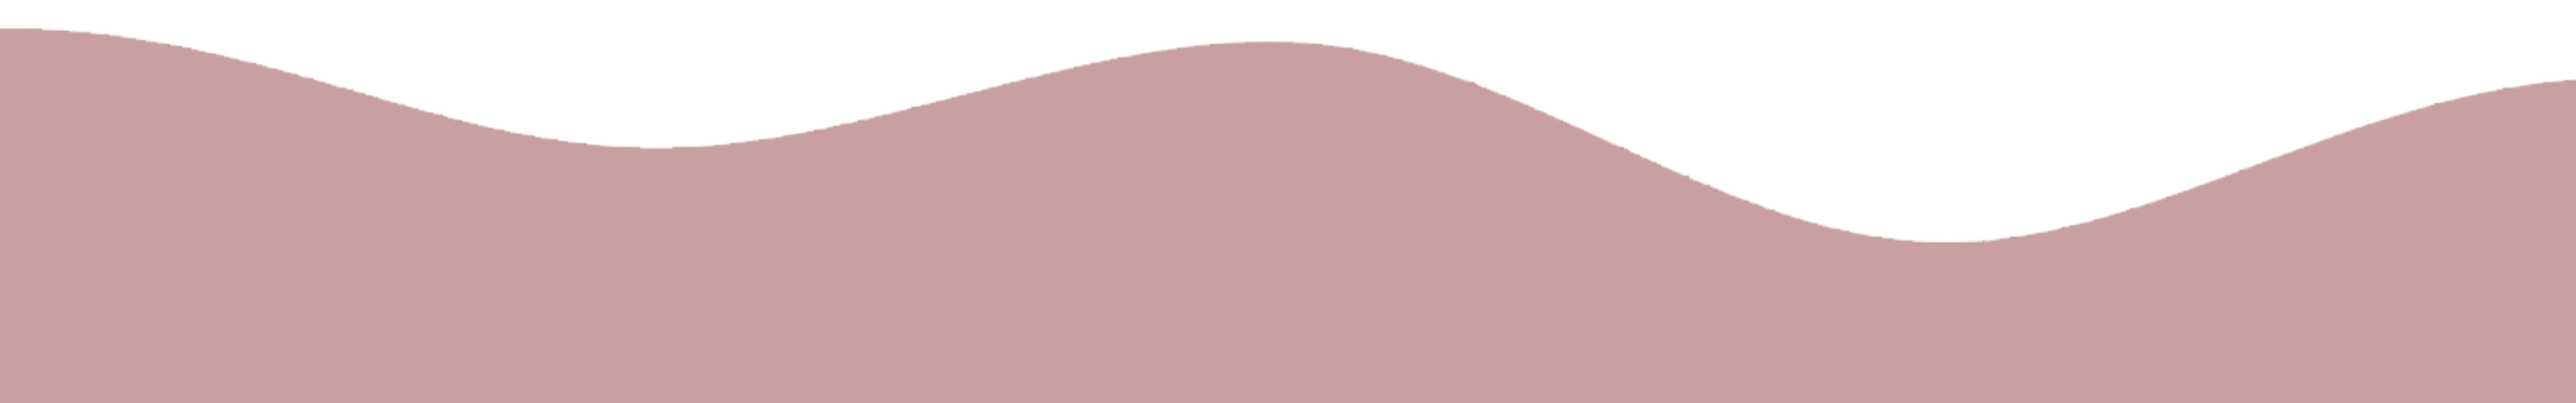
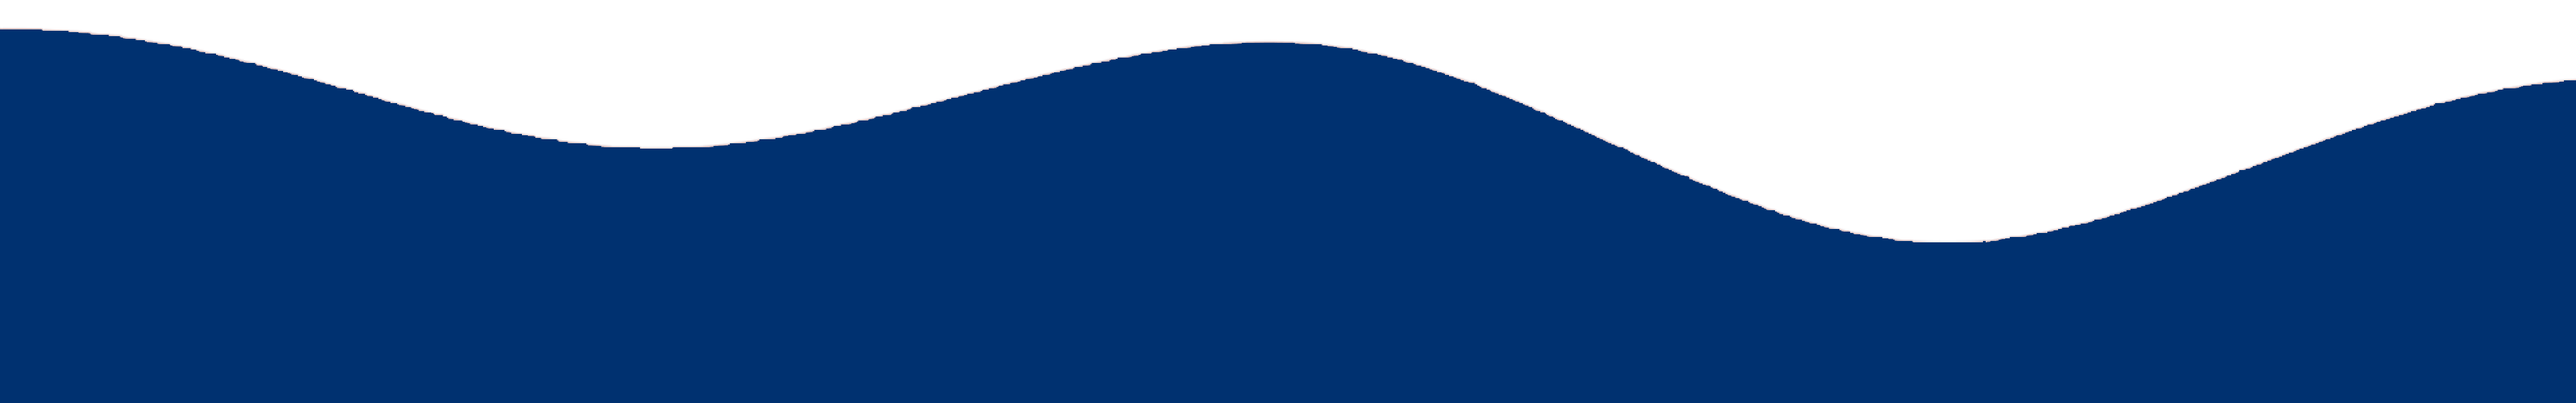
UI Revamp 2.0

diff --git a/resources/views/auth/register.blade.php b/resources/views/auth/register.blade.php
@@ -10,7 +10,7 @@
             <div class="col-md-8">
                 <div class="card">
                     <div class="card-header" style="
-                                            background-color:rgba(200,160,160,255);
+                                            background-color:#003170;
                                             display:flex;
                                             justify-content:center;
                                             font-size:2vw;
@@ -18,17 +18,17 @@
 
                     {{ __('Register') }}
                 </div>
-    
-                    <div class="card-body" style="background-color:rgba(200,160,160,255)">
+
+                    <div class="card-body" style="background-color:#003170">
                         <form method="POST" action="{{ route('register') }}">
                             @csrf
-    
+
                             <div class="row mb-3 d-flex justify-content-center">
                                 {{-- <label for="name" class="col-md-4 col-form-label text-md-end">{{ __('Name') }}</label> --}}
-    
+
                                 <div class="col-md-8">
                                     <input id="name" type="text" placeholder="Name" class="form-control @error('name') is-invalid @enderror" name="name" value="{{ old('name') }}" required autocomplete="name" autofocus>
-    
+
                                     @error('name')
                                         <span class="invalid-feedback" role="alert">
                                             <strong>{{ $message }}</strong>
@@ -36,13 +36,13 @@
                                     @enderror
                                 </div>
                             </div>
-    
+
                             <div class="row mb-3 d-flex justify-content-center">
                                 {{-- <label for="email" class="col-md-4 col-form-label text-md-end">{{ __('E-Mail Address') }}</label> --}}
-    
+
                                 <div class="col-md-8">
                                     <input id="email" type="email" placeholder="E-Mail Address" class="form-control @error('email') is-invalid @enderror" name="email" value="{{ old('email') }}" required autocomplete="email">
-    
+
                                     @error('email')
                                         <span class="invalid-feedback" role="alert">
                                             <strong>{{ $message }}</strong>
@@ -50,13 +50,13 @@
                                     @enderror
                                 </div>
                             </div>
-    
+
                             <div class="row mb-3 d-flex justify-content-center">
                                 {{-- <label for="password" class="col-md-4 col-form-label text-md-end">{{ __('Password') }}</label> --}}
-    
+
                                 <div class="col-md-8">
                                     <input id="password" type="password" placeholder="Password" class="form-control @error('password') is-invalid @enderror" name="password" required autocomplete="new-password">
-    
+
                                     @error('password')
                                         <span class="invalid-feedback" role="alert">
                                             <strong>{{ $message }}</strong>
@@ -64,15 +64,15 @@
                                     @enderror
                                 </div>
                             </div>
-    
+
                             <div class="row mb-3 d-flex justify-content-center">
                                 {{-- <label for="password-confirm" class="col-md-4 col-form-label text-md-end">{{ __('Confirm Password') }}</label> --}}
-    
+
                                 <div class="col-md-8">
                                     <input id="password-confirm" type="password" placeholder="Confirm Password" class="form-control" name="password_confirmation" required autocomplete="new-password">
                                 </div>
                             </div>
-    
+
                             <div class="row mb-0">
                                 <div class="col-md-6 offset-md-5">
                                     <button type="submit" class="btn btn btn-outline-light">

diff --git a/resources/views/auth/login.blade.php b/resources/views/auth/login.blade.php
@@ -10,26 +10,26 @@
             <div class="col-md-8">
                 <div class="card">
                     <div class="card-header" style="
-                                            background-color:rgba(200,160,160,255);
+                                            background-color:#003170;
                                             display:flex;
                                             justify-content:center;
                                             font-size:2vw;
                                             color:white">
 
                                             {{ __('Login') }}
-                                        
+
                                         </div>
-    
-                    <div class="card-body" style="background-color:rgba(200,160,160,255);">
+
+                    <div class="card-body" style="background-color:#003170">
                         <form method="POST" action="{{ route('login') }}">
                             @csrf
-    
+
                             <div class="row mb-3 d-flex justify-content-center">
                                 {{-- <label for="email" class="col-md-4 col-form-label text-md-end">{{ __('E-Mail Address') }}</label> --}}
-    
+
                                 <div class="col-md-8">
                                     <input id="email" type="email" placeholder="E-Mail Address" class="form-control @error('email') is-invalid @enderror" name="email" value="{{ old('email') }}" required autocomplete="email" autofocus>
-    
+
                                     @error('email')
                                         <span class="invalid-feedback" role="alert">
                                             <strong>{{ $message }}</strong>
@@ -37,13 +37,13 @@
                                     @enderror
                                 </div>
                             </div>
-    
+
                             <div class="row mb-2 d-flex justify-content-center">
                                 {{-- <label for="password" class="col-md-4 col-form-label text-md-end">{{ __('Password') }}</label> --}}
-    
+
                                 <div class="col-md-8">
                                     <input id="password" type="password" placeholder="Password" class="form-control @error('password') is-invalid @enderror" name="password" required autocomplete="current-password">
-    
+
                                     @error('password')
                                         <span class="invalid-feedback" role="alert">
                                             <strong>{{ $message }}</strong>
@@ -51,19 +51,19 @@
                                     @enderror
                                 </div>
                             </div>
-    
+
                             <div class="row mb-3">
                                 <div class="col-md-6 offset-md-2">
                                     <div class="form-check">
                                         <input class="form-check-input" type="checkbox" name="remember" id="remember" {{ old('remember') ? 'checked' : '' }}>
-    
+
                                         <label class="form-check-label" style="color:white" for="remember">
                                             {{ __('Remember Me') }}
                                         </label>
                                     </div>
                                 </div>
                             </div>
-    
+
                             <div class="row mb-0">
                                 <div class="col-md-8 offset-md-5">
                                     <button type="submit" class="btn btn-outline-light" style="padding: 0.5vw 2vw">

diff --git a/resources/views/dashboard.blade.php b/resources/views/dashboard.blade.php
@@ -4,7 +4,7 @@
 
         <div class="leftContainer" style="width:40vw;
                                 height:20vw;
-                                border: 1vw solid #FFFFFF; 
+                                border: 1vw solid #FFFFFF;
                                 border-radius:0.7vw;
                                 color:black;
                                 margin-top: 2vw;
@@ -14,7 +14,7 @@
                                 box-shadow: 0.5vw 0.5vw 1vw 0.8vw #C0C0C0;">
 
             <div class="header" style="display: flex;align-items:center">
-                <h2 style="margin-left: 2vw">Upcoming Activities</h2>
+                <h2 style="margin-left: 2vw">Your Forums</h2>
                 <a href="/agenda/{{ Auth::user()->id }}" style="color:blue; margin-top:1vw;margin-left:1vw;">See all</a>
             </div>
 
@@ -30,25 +30,9 @@
                             <tr>
                             </tr>
                         </thead>
-                        @forelse ($agenda_details as $item)
-                            @php
-                                $count++;
-                            @endphp
-                            @if ($count <= 5)
-                                <tr>
-                                    <td>
-                                        @php
-                                            $time = $item->time;
-                                            echo number_format((float) $time, 2, '.', '');
-                                        @endphp
-                                    </td>
-                                    <td style="padding: 12px 15px;">{{ $item->agenda }}</td>
-                            @endif
-                        @empty
                         <div class="empty" style="margin-left: -19vw; margin-top: 1vw">
-                            No Agendas For Today.
+                            No active forums.
                         </div>
-                        @endforelse
                     </table>
                 </div>
             </div>
@@ -56,7 +40,7 @@
 
             <div class="rightContainer" style="width:40vw;
                                         height:20vw;
-                                        border: 1vw solid #FFFFFF; 
+                                        border: 1vw solid #FFFFFF;
                                         border-radius:0.7vw;
                                         color:black;
                                         margin-top: -20vw;
@@ -104,5 +88,5 @@
                 <img src="/storage/dashBottom.png" style="margin-top: 1.3vw;margin-left: 29vw ;width: 30vw; height: 18vw" alt="">
             </div>
 
-        
+
     @endsection

diff --git a/resources/views/welcome.blade.php b/resources/views/welcome.blade.php
@@ -12,7 +12,7 @@
             font-weight: 800;
             font-size: 5vw;
             color: #FFFFFF;">
-                UniDashboard
+                StudyHub
             </p>
 
             <p style="
@@ -23,7 +23,7 @@
                 Your personal task manager, <br> get started now.
             </p>
 
-            <a class="btn" style="background-color: white;color:rgba(200,160,160,255);" href="/register"
+            <a class="btn" style="background-color: white;color:#003170;" href="/register"
                 role="button">Get Started</a>
         </div>
 
@@ -92,15 +92,15 @@
             <div class="text" style="
                             font-size:2vw;
                             margin-top:1vw">
-                Progress Tracker
+                Forum
             </div>
 
             <div class="text" style="font-size:1.3vw">
-                Track your progress whilst on your scholarship
+                Stuck on a problem? Ask away!
             </div>
 
             <div class="text" style="font-size:1.3vw">
-                or internship.
+                We got you covered.
             </div>
         </div>
 
@@ -147,32 +147,12 @@
             Join millions of users from around the world!
         </div>
         <a class="btn"
-            style="background-color: rgba(200,160,160,255);color:white;font-size:1.5vw;padding: 0.5vw 5vw" href="/register"
+            style="background-color: #003170;color:white;font-size:1.5vw;padding: 0.5vw 5vw" href="/register"
             role="button">JOIN US</a>
     </div>
 
 
     <br>
-    <div class="Explore">
-        <div class="TextBox" id="about" style="display: flex;flex-direction:column;align-items:center;color:#585858;font-family: Montserrat;
-    font-style: normal">
-
-            <div class="upperText" id="explore" style="
-        font-weight: bold;
-        font-size: 5vw;">
-                Explore
-            </div>
-
-            <div class="lowerText" style="font-size: 2vw">
-                Introduction to UniDashboard
-            </div>
-            <br>
-        </div>
-        <div class="mx-auto" class="embed-responsive embed-responsive-16by9" style="padding-left: 29vw; padding-top: 3vw; padding-bottom: 3vw">
-            <iframe class="embed-responsive-item" src="https://www.youtube.com/embed/TLahQwBlK6g"
-                frameborder="1" allowfullscreen style="height: 20vw;width: 40vw"></iframe>
-        </div>
-    </div>
 
 
 

diff --git a/resources/views/layouts/app.blade.php b/resources/views/layouts/app.blade.php
@@ -7,7 +7,7 @@
     <!-- CSRF Token -->
     <meta name="csrf-token" content="{{ csrf_token() }}">
 
-    <title>{{ config('app.name', 'Laravel') }}</title>
+    <title>StudyHub</title>
 
     <!-- Scripts -->
     <script src="{{ asset('js/app.js') }}" defer></script>
@@ -41,10 +41,10 @@
 </head>
 <body>
     <div id="app">
-        <nav class="navbar navbar-expand-md navbar-lightshadow-sm" style="background-color:rgba(200,160,160,255)">
+        <nav class="navbar navbar-expand-md navbar-lightshadow-sm" style="background-color:#003170">
             <div class="container">
                 <a class="navbar-brand" href="{{ url('/') }}">
-                    <img src="../storage/logo.png" alt="" width="100vw" height="100vw">
+                    <img src="../storage/headerlogo.png" alt="" width="100vw" height="100vw">
                 </a>
                 <button class="navbar-toggler" type="button" data-bs-toggle="collapse" data-bs-target="#navbarSupportedContent" aria-controls="navbarSupportedContent" aria-expanded="false" aria-label="{{ __('Toggle navigation') }}">
                     <span class="navbar-toggler-icon"></span>
@@ -72,7 +72,7 @@
                         <div class="buttons" style="display:flex;justify-content:space-between;width:13vw">
                             @if (Route::has('login'))
                                 <li class="nav-item ms-4">
-                                    <a class="btn" style="background-color: white;color:rgba(200,160,160,255);" href="/login" role="button">Login</a>
+                                    <a class="btn" style="background-color: white;color:#003170;" href="/login" role="button">Login</a>
                                 </li>
                             @endif
 
@@ -87,7 +87,7 @@
                                 <a id="navbarDropdown" class="nav-link dropdown-toggle" href="#" role="button" data-bs-toggle="dropdown" style="color:white" aria-haspopup="true" aria-expanded="false" v-pre>
                                     {{ Auth::user()->name }}
                                 </a>
-                                
+
                                 <div class="dropdown-menu dropdown-menu-right" aria-labelledby="navbarDropdown">
                                     <a class="dropdown-item" href="{{ route('logout') }}"
                                        onclick="event.preventDefault();

diff --git a/app/Http/Controllers/HomeController.php b/app/Http/Controllers/HomeController.php
@@ -3,7 +3,6 @@
 namespace App\Http\Controllers;
 
 use App\Models\File;
-use App\Models\AgendaDetail;
 use Illuminate\Http\Request;
 use Illuminate\Support\Facades\Auth;
 
@@ -26,10 +25,8 @@ class HomeController extends Controller
      */
     public function index(Request $request)
     {
-        $details = AgendaDetail::where('agenda_id', Auth::user()->id)->orderBy('time')->latest('created_at')->limit(4)->get();
         $file = File::where('user_id', Auth::user()->id)->latest('created_at')->limit(4)->get();
         $list = [
-            'agenda_details' => $details,
             'file' =>$file
         ];
         return view('dashboard', $list);

diff --git a/app/Http/Controllers/Auth/RegisterController.php b/app/Http/Controllers/Auth/RegisterController.php
@@ -71,10 +71,6 @@ class RegisterController extends Controller
             'password' => Hash::make($data['password']),
         ]);
 
-        Agenda::create([
-            'user_id' => $user->id
-        ]);
-
         return $user;
     }
 }
